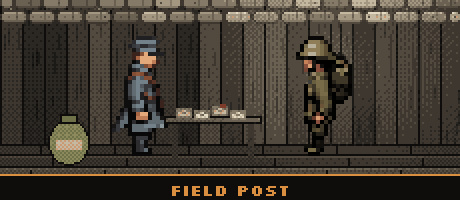
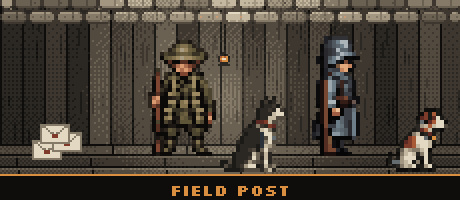
Obrázky úrovní Patreonu 460×200 se psy (Field Post, Officers' Mess); pravidlo rozměrů v CLAUDE.md
Claude-Session: https://claude.ai/code/session_01FWoRCTpAmETsDNoNBNsz1y

diff --git a/marketing/make_patreon_dog.py b/marketing/make_patreon_dog.py
@@ -110,3 +110,65 @@ def post_dogs():
 if __name__ == "__main__":
     post_tiers()
     post_dogs()
+
+
+# ---------------- obrázky úrovní 460×200 (mřížka 230×100 ×2, doporučení Patreonu) se psy, 21. 11. ----------------
+from make_patreon import TW, TH, label, dugout, tier_bonds  # noqa: E402
+
+
+def save_tier(im, name):
+    out = os.path.join(OUT, name)
+    up(im, 2).convert("RGB").save(out, quality=95, subsampling=0)
+    print(out)
+
+
+def tier_post_dog():
+    """Field Post: voják čte dopis, vedle sedí pes, na bedně dopisy a balík"""
+    im = dugout(12)
+    lamp(im, 112, 30, top=12)
+    im.alpha_composite(up(sprite("concord_south.png"), 2), (60, 16))
+    im.alpha_composite(up(sprite("hegemony_east.png"), 2), (136, 16))
+    light(im, 112, 50, 80, strength=1.0, steps=3)
+    shade(im, (0, 0, TW, TH), strength=0.55)
+    im.alpha_composite(up(dog("collie"), 2), (94, 22))  # pes až po světle (bez přebarvení)
+    im.alpha_composite(up(dog("jackrussell"), 2), (176, 22))
+    d = ImageDraw.Draw(im)
+    for k, (x, y) in enumerate(((16, 70), (26, 66), (20, 62))):  # obálky na bedně
+        d.rectangle((x, y, x + 14, y + 9), fill=P["white"], outline=P["sand"])
+        d.line((x, y, x + 7, y + 5), fill=P["sand"]); d.line((x + 14, y, x + 7, y + 5), fill=P["sand"])
+        d.rectangle((x + 6, y + 5, x + 8, y + 6), fill=P["rust"])
+    label(im, "FIELD POST")
+    save_tier(im, "tier_field_post.jpg")
+
+
+def tier_mess_dog():
+    """Officers' Mess: důstojníci obou stran se zlatou hvězdou u stolu, u každého pes"""
+    im = Image.new("RGBA", (TW, TH), P["dark"] + (255,))
+    planks(im, (0, 0, TW, TH), seed=11, vertical=True)
+    sandbag_wall(im, (0, 0, TW, 12), seed=4)
+    planks(im, (0, 72, TW, TH), seed=5, vertical=False)
+    d = ImageDraw.Draw(im)
+    d.line((0, 72, TW, 72), fill=P["ink"])
+    lamp(im, 112, 30, top=12)
+    im.alpha_composite(up(sprite("hegemony_officer_south.png"), 2), (20, 16))
+    im.alpha_composite(up(sprite("concord_officer_south.png"), 2), (146, 16))
+    d = ImageDraw.Draw(im)
+    d.rectangle((82, 56, 142, 60), fill=P["mud3"], outline=P["ink"])
+    d.rectangle((86, 61, 89, 80), fill=P["mud1"]); d.rectangle((135, 61, 138, 80), fill=P["mud1"])
+    d.rectangle((90, 52, 116, 55), fill=P["pale"]); d.line((93, 53, 112, 54), fill=P["rust"])
+    d.rectangle((124, 47, 125, 55), fill=P["white"]); d.point((124, 46), fill=P["gold"])
+    mug(d, 128, 49, 0)
+    light(im, 124, 48, 60, strength=1.0, steps=3)
+    shade(im, (0, 0, TW, TH), strength=0.6)
+    im.alpha_composite(up(dog("shepherd"), 2), (56, 22))
+    im.alpha_composite(up(dog("airedale"), 2), (108, 22))
+    d = ImageDraw.Draw(im)
+    for cx in (52, 178):
+        star(d, cx, 10)
+    label(im, "OFFICERS' MESS")
+    save_tier(im, "tier_officers_mess.jpg")
+
+
+if __name__ == "__main__":
+    tier_post_dog()
+    tier_mess_dog()

diff --git a/CLAUDE.md b/CLAUDE.md
@@ -152,6 +152,7 @@ silné bombardování se smrtí přímým zásahem, spojař proti granátům) je
   nová návštěva stáhne z Firebase jen ~0,2 MB. **Při přidávání dalších velkých souborů do `web/public/` počítej s limitem** (podrobnosti `docs/STATUS.md`, „Známá slabá místa“).
 - **Nic nepublikuj na Instagram bez výslovného souhlasu uživatele** (reel, story, post). Tokeny nikdy nezadávej ani nevypisuj.
 - **Statické posty vždy 1080×1350 (4:5)**, víc místa a pro IG nejlepší: kreslí se v mřížce 216×270 a zvětší ×5 (`marketing/make_posts.py` W, H, K; `make_day.py`, `make_victory.py`).
+- **Rozměry pro Patreon (uživatel 21. 11., pamatovat):** obrázky k postům a thumbnaily **1920×1080** (16:9, Patreon jiné poměry ořízne; `make_patreon_thumb.py`, `make_patreon_dog.py`), obrázky úrovní **460×200** (`tier_*.jpg`). V obrázcích nepsat „free to play“ a místo „&“ psát „AND“ (v pixelovém písmu vypadá jako $).
 - **Na IG nejvýš 5 hashtagů v popisku** (pravidlo uživatele 21. 11.: Instagram víc nedovolí).
 - **V popiscích na IG hráče neoznačovat** (žádné @jméno; hromadné označování může IG vyhodnotit jako spam). Platí i pro hrdinu kóty: v popisku je jeho jméno
   bez zavináče. **Výjimka (uživatel 17. 11.):** autora díla, které ve videu použijeme (např. plakáty), v popisku jednou označíme („🎨 Posters by @handle“), ať o tom ví. Označení a jména hráčů patří do hry (web, Gazette) a do videa.
